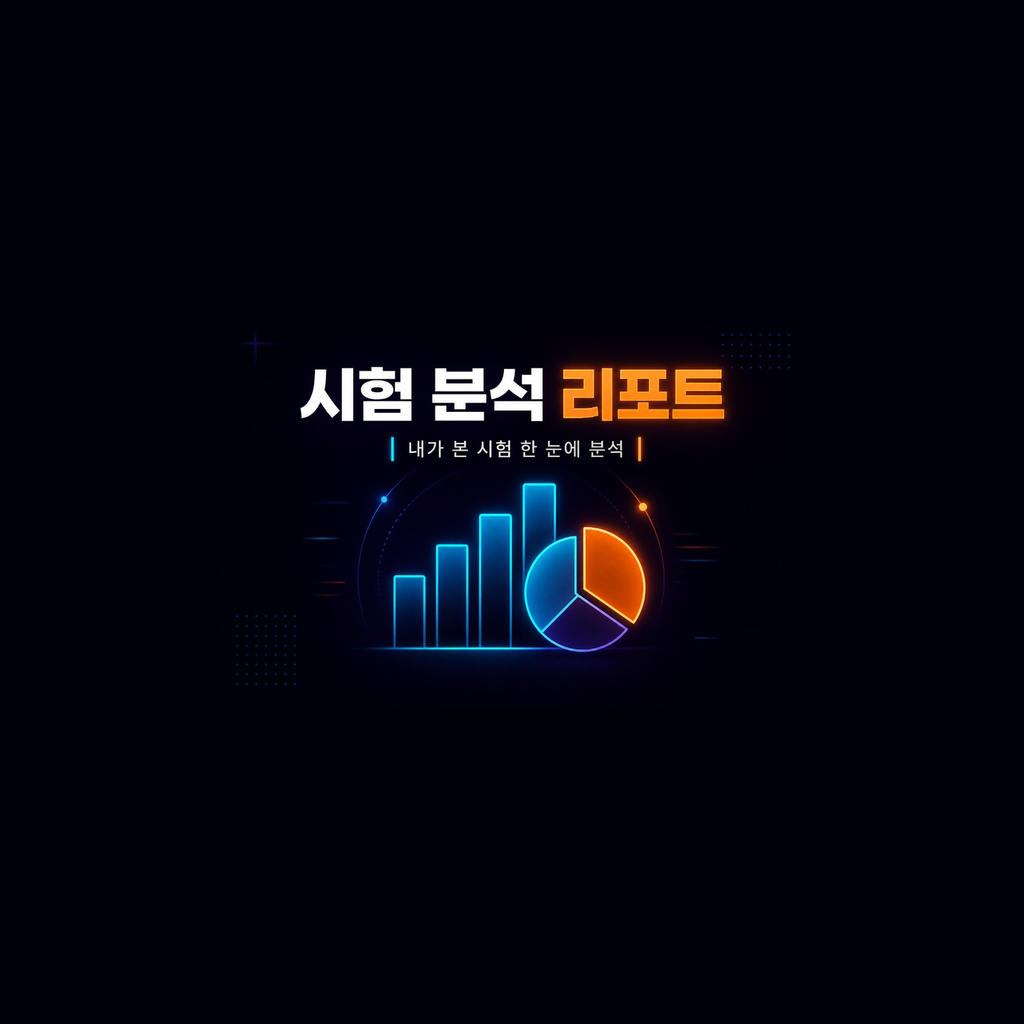
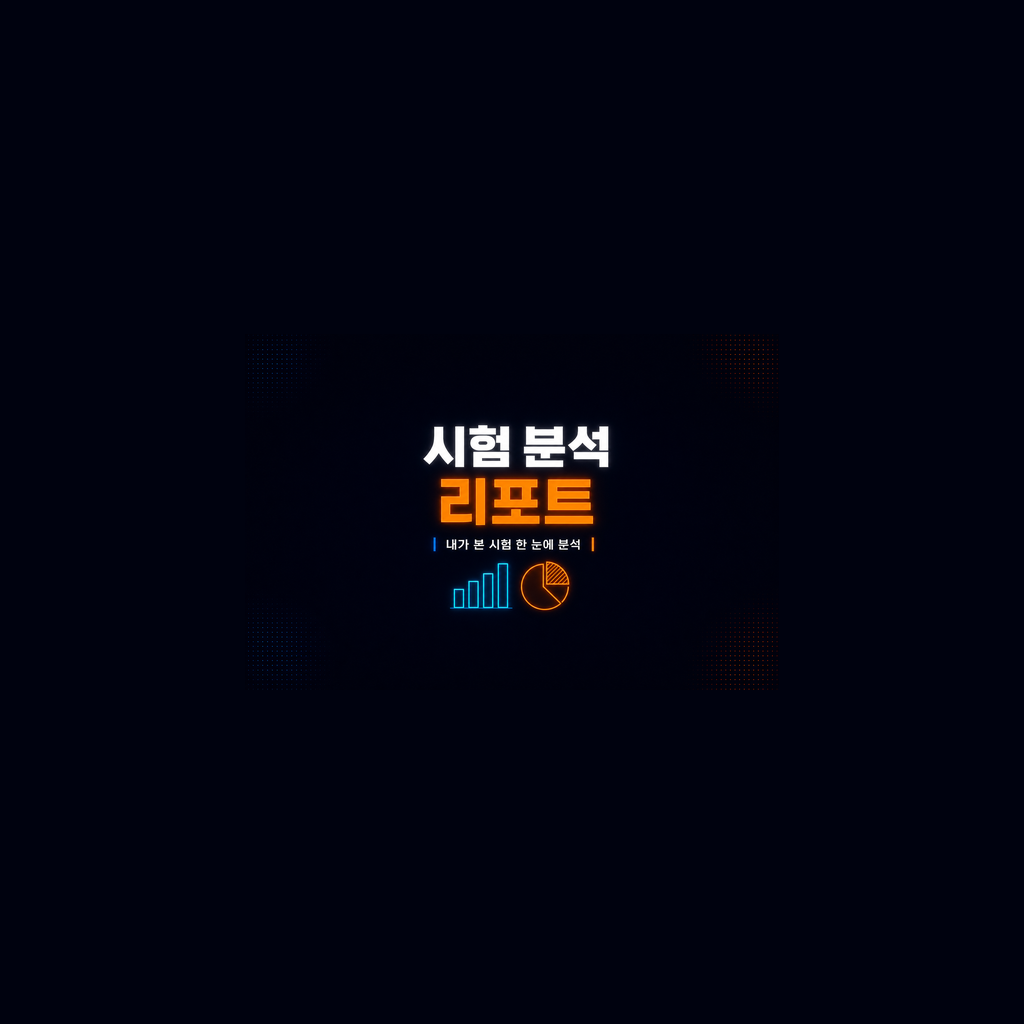
feat: 트리거 보카

Changed region(s): [[0.2812, 0.3438, 0.75, 0.6562], [0.25, 0.5938, 0.2812, 0.6562]]

diff --git a/analysis.html b/analysis.html
@@ -7347,7 +7347,7 @@
                 content: {
                     title: '📊 [' + userName + ']님 시험 분석 리포트',
                     description: desc,
-                    imageUrl: 'https://blackt.pages.dev/share-exam-report.png',
+                    imageUrl: 'https://blackt.pages.dev/share-exam-report.png?v=3',
                     link: { mobileWebUrl: shareUrl, webUrl: shareUrl }
                 },
                 buttons: [{ title: '시험 분석 앱에서 보기', link: { mobileWebUrl: shareUrl, webUrl: shareUrl } }]

diff --git a/scripts/build-share-exam-kakao.py b/scripts/build-share-exam-kakao.py
@@ -1,0 +1,54 @@
+"""Build Kakao-safe 1:1 share-exam-report from two-line title source."""
+from __future__ import annotations
+
+import os
+from pathlib import Path
+
+from PIL import Image, ImageDraw, ImageFont
+
+ROOT = Path(__file__).resolve().parents[1]
+ASSETS = Path(r"C:\Users\noto0\.cursor\projects\c-Users-noto0-Desktop\assets")
+SIDE = 1024
+KAKAO_SAFE_RATIO = 0.24
+
+
+def sample_bg(im: Image.Image) -> tuple[int, int, int, int]:
+    px = im.load()
+    r, g, b, a = px[min(8, im.size[0] - 1), min(8, im.size[1] - 1)]
+    return (r, g, b, 255)
+
+
+def find_two_line_source() -> Path:
+    for name in os.listdir(ASSETS):
+        if "share-exam-report-v3" in name and name.endswith(".png"):
+            return ASSETS / name
+    raise FileNotFoundError("share-exam-report-v3.png not found in assets")
+
+
+def fit_square(im: Image.Image, side: int = SIDE, margin_ratio: float = KAKAO_SAFE_RATIO) -> Image.Image:
+    im = im.convert("RGBA")
+    margin = int(side * margin_ratio)
+    max_w = side - margin * 2
+    max_h = side - margin * 2
+    w, h = im.size
+    scale = min(max_w / w, max_h / h, 1.0)
+    nw, nh = max(1, int(w * scale)), max(1, int(h * scale))
+    im = im.resize((nw, nh), Image.Resampling.LANCZOS)
+    bg = sample_bg(im)
+    canvas = Image.new("RGBA", (side, side), bg)
+    ox = (side - nw) // 2
+    oy = (side - nh) // 2
+    canvas.paste(im, (ox, oy), im)
+    return canvas
+
+
+def main() -> None:
+    src = find_two_line_source()
+    out = fit_square(Image.open(src))
+    out_path = ROOT / "share-exam-report.png"
+    out.save(out_path, format="PNG", optimize=True)
+    print(f"saved {out_path} from {src.name} -> {out.size}")
+
+
+if __name__ == "__main__":
+    main()